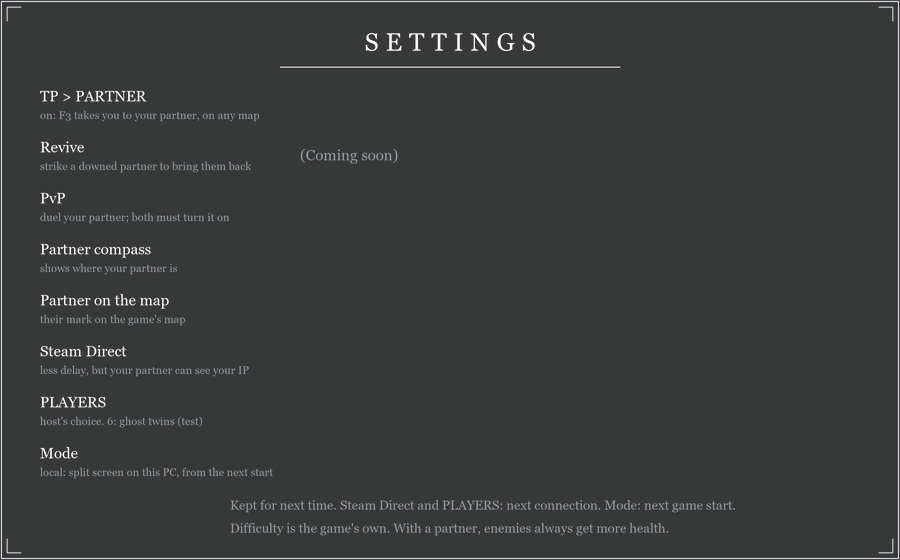
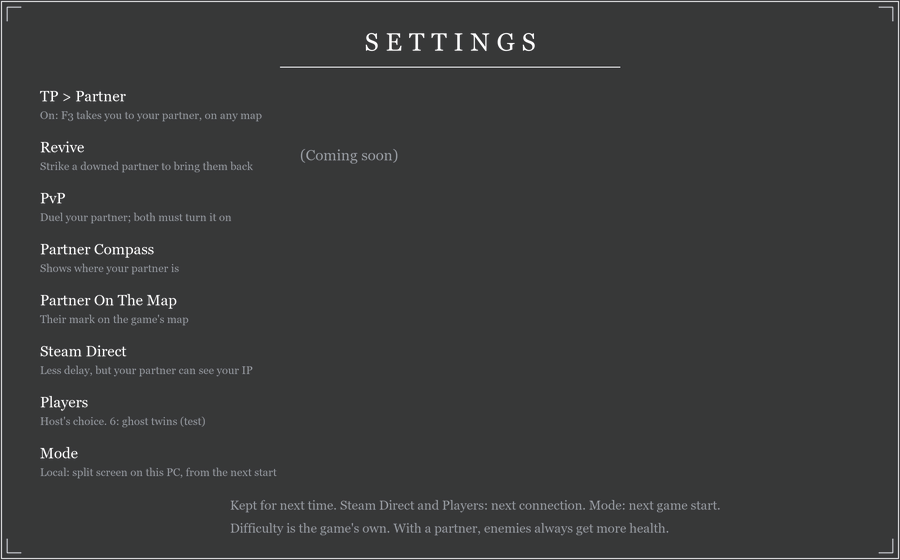
Settings page: each word of a setting's name starts with a capital, and so does each hint (PvP as it was)

diff --git a/art/make_online_panel.py b/art/make_online_panel.py
@@ -17,16 +17,16 @@ WORDS = {
                  "Joining takes you to the host, on any map.",
                  "Password: optional. If one player sets it, both must use the same one."],
         "settings": "SETTINGS",
-        "rows": [("TP > PARTNER", "on: F3 takes you to your partner, on any map"),
-                 ("Revive", "strike a downed partner to bring them back"),
-                 ("PvP", "duel your partner; both must turn it on"),
-                 ("Partner compass", "shows where your partner is"),
-                 ("Partner on the map", "their mark on the game's map"),
-                 ("Steam Direct", "less delay, but your partner can see your IP"),
-                 ("PLAYERS", "host's choice. 6: ghost twins (test)"),
-                 ("Mode", "local: split screen on this PC, from the next start")],
+        "rows": [("TP > Partner", "On: F3 takes you to your partner, on any map"),
+                 ("Revive", "Strike a downed partner to bring them back"),
+                 ("PvP", "Duel your partner; both must turn it on"),
+                 ("Partner Compass", "Shows where your partner is"),
+                 ("Partner On The Map", "Their mark on the game's map"),
+                 ("Steam Direct", "Less delay, but your partner can see your IP"),
+                 ("Players", "Host's choice. 6: ghost twins (test)"),
+                 ("Mode", "Local: split screen on this PC, from the next start")],
         "soon": "(Coming soon)",
-        "foot": ["Kept for next time. Steam Direct and PLAYERS: next connection. Mode: next game start.",
+        "foot": ["Kept for next time. Steam Direct and Players: next connection. Mode: next game start.",
                  "Difficulty is the game's own. With a partner, enemies always get more health."],
         "cards": {"online_steam": ("Steam", "friends, no setup"),
                   "online_tailscale": ("Tailscale", "also Hamachi, Radmin"),

diff --git a/INSTALL.md b/INSTALL.md
@@ -52,20 +52,20 @@ a home network; Other Network is for ZeroTier and UU Accelerator. If you want a 
 password on both PCs before you connect. English and 中文 at the top of the panel switch the language of the panel
 and the co-op messages. Your choices are kept for the next start.
 
-**MORE** opens the settings: TP > PARTNER, PvP, the partner compass, your partner on the map and Steam Direct, each ON or
-OFF, PLAYERS (2, 4 or 6), and Mode: MULTIPLAYER, or LOCAL for two players on this PC. Mode works from the next time you start the
+**MORE** opens the settings: TP > Partner, PvP, the partner compass, your partner on the map and Steam Direct, each ON or
+OFF, Players (2, 4 or 6), and Mode: MULTIPLAYER, or LOCAL for two players on this PC. Mode works from the next time you start the
 game. Revive is coming soon. Enemy difficulty is the game's own setting. With a partner, enemies always get extra health and
 posture on top of it.
 
 **Going to your partner.** Joining takes you to the host once, even on another map, so a friend with a new save can
 join a host further into the story. Your save stays where you land, so your own story can get ahead of where you were.
-After that, **F3** takes you to your partner if you turn TP > PARTNER on under MORE. It's off by default, because it's a
+After that, **F3** takes you to your partner if you turn TP > Partner on under MORE. It's off by default, because it's a
 lot of power to have on one key. Neither works during a boss fight, a cutscene, a duel or a menu, or while you or your
 partner are down.
 
 ### 4 players (Beta) and 6 players (Experimental)
 
-PLAYERS under MORE is 2 by default, and with 2 nothing changes. Pick 4 before you press Host and up to three guests can join;
+Players under MORE is 2 by default, and with 2 nothing changes. Pick 4 before you press Host and up to three guests can join;
 pick 6 and up to five can. Only the host's choice counts: guests follow it, whatever theirs says. It works from the next Host
 (`PartySize = 4` or `6` in the ini does the same; the older `FourPlayers = On` still means 4). Everyone joins as they would with
 two players, and everyone needs the same version. Neither has been played by that many people yet: tell us what breaks.
@@ -126,7 +126,7 @@ Like Elden Ring, enemies and bosses get tougher while your partner is with you: 
 default. Change `CoopEnemyHealth` / `CoopEnemyPosture` in `PhantomPact.ini` (percent; 100 = normal). Both
 players should use the same numbers.
 
-With 4 or 6 PLAYERS, each person connected adds the same again, wherever they are, on another map, loading or down: 200%
+With 4 or 6 Players, each person connected adds the same again, wherever they are, on another map, loading or down: 200%
 and 160% with two connected, 250% and 190% with three, and it stops there. With five or six, the ghost twins make it harder
 instead of more health. It only goes up, so a boss doesn't lose health when someone dies or
 leaves. Someone who joins during a boss fight only watches, so that boss keeps its number until the fight is over, while other

diff --git a/README.md b/README.md
@@ -32,7 +32,7 @@ share loot and dust, and rest at bells together. The host's world leads, and you
   pad. Player 2 climbs, opens chests, rings bells, drinks and fights on their own, with the game's own HUD, button prompts,
   boss bars and execution points in their half of the screen, and one shared backpack
   ([docs/LOCAL_COOP.md](docs/LOCAL_COOP.md))
-- 4 players (beta) and 6 players (experimental): the host picks PLAYERS under MORE in the F5 panel, and up to three or
+- 4 players (beta) and 6 players (experimental): the host picks Players under MORE in the F5 panel, and up to three or
   five guests can join. Enemies and bosses get 50% more health for each person connected, up to four players. With five or
   six, every enemy and boss gets a cyan ghost twin with red eyes instead: two bosses in each arena
   ([INSTALL.md](INSTALL.md#4-players-beta-and-6-players-experimental))
